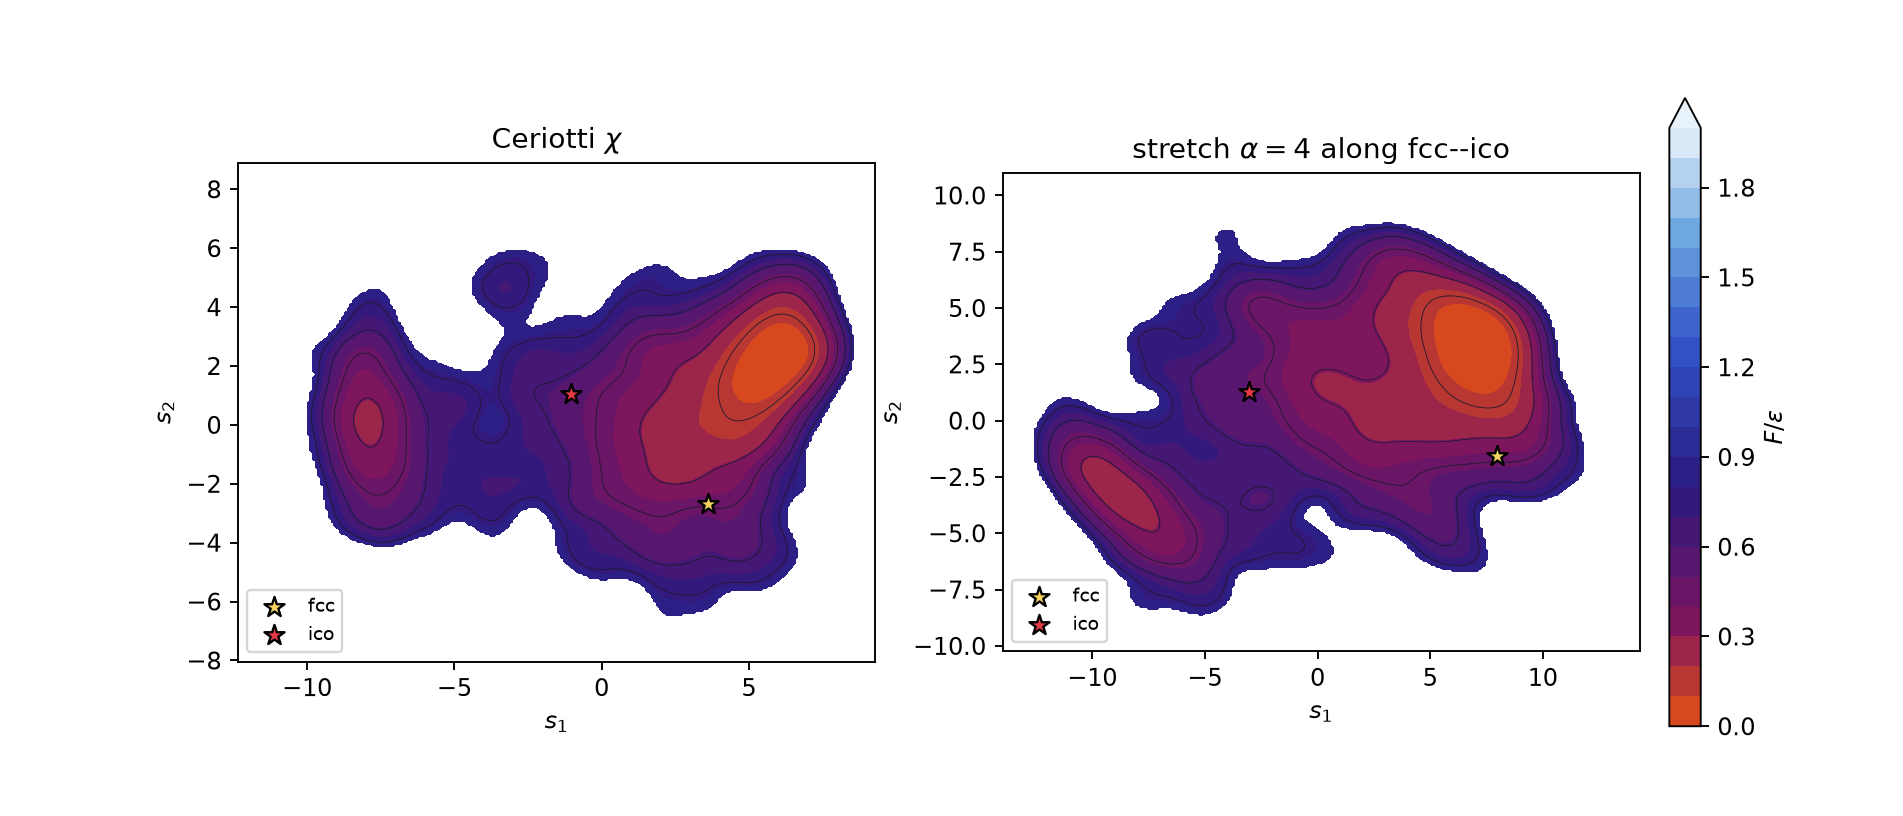
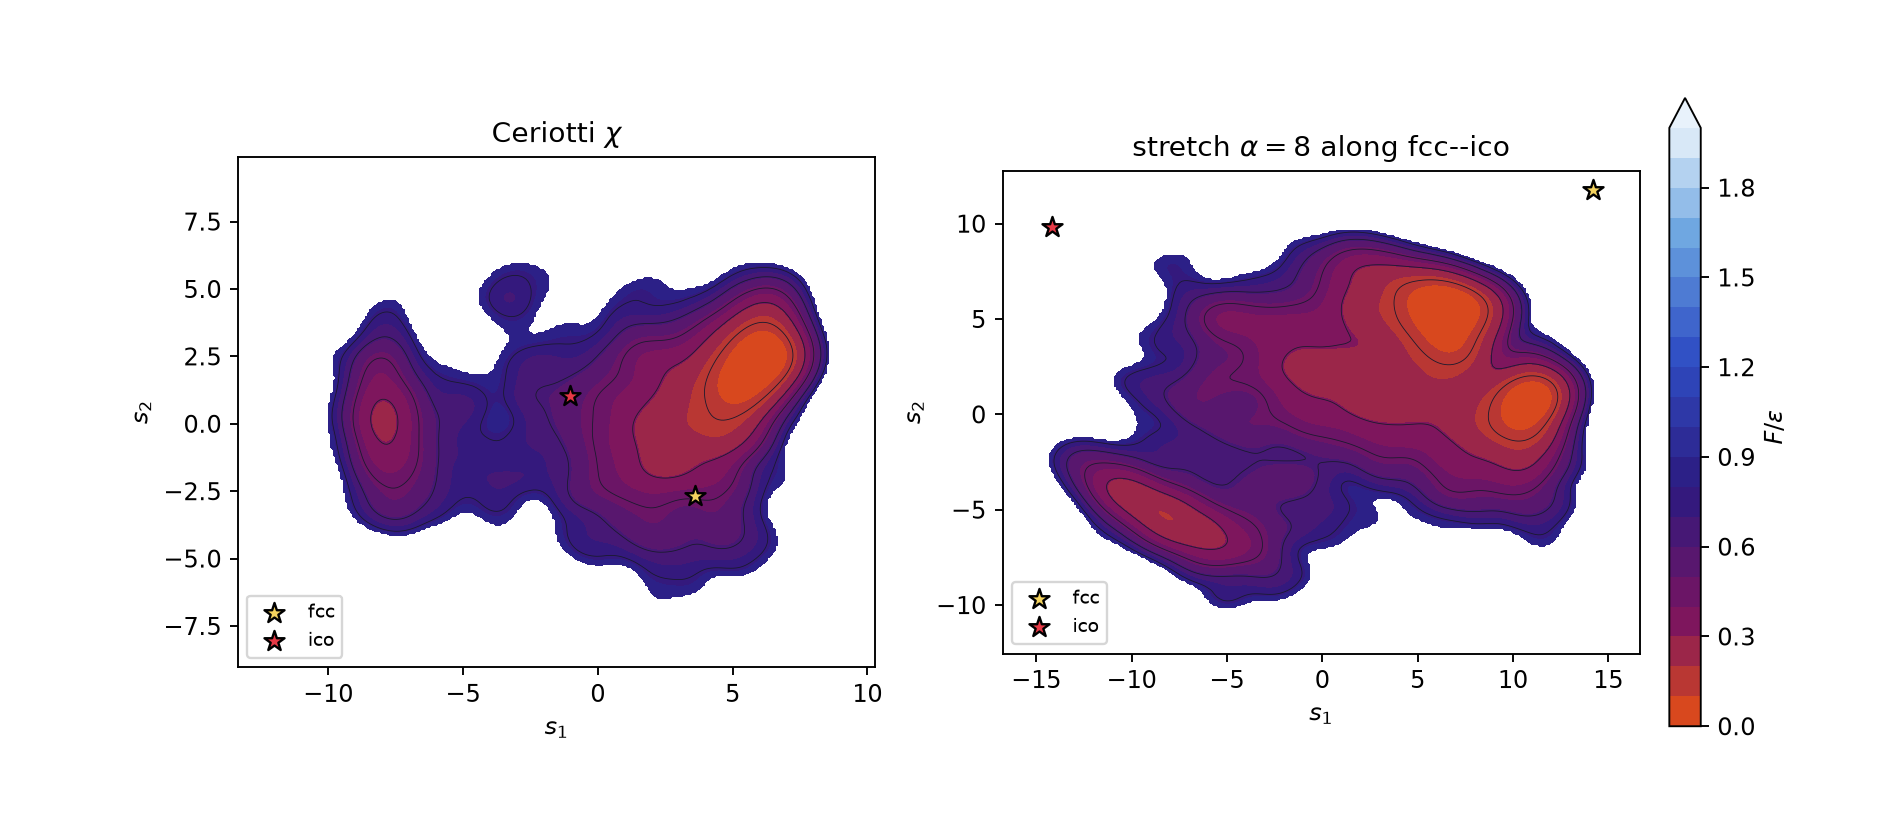
docs: stretch alpha=8 with fcc and ico projected as themselves
The minima sit outside the TSE cloud, on opposite ends of the
stretched axis. Fisher Mahalanobis tightens intra-class distances
but does not beat stretch on the fcc-ico gap.

diff --git a/scripts/compare_stretch_fig.py b/scripts/compare_stretch_fig.py
@@ -21,19 +21,20 @@ spec.loader.exec_module(cf)
 
 def main() -> None:
     base = np.loadtxt("/tmp/landfold-cmp-base.proj")
-    stre = np.loadtxt("/tmp/landfold-cmp")
+    stre = np.loadtxt("/tmp/ts_a8.proj")
     gx0, gy0, f0 = cf.kde_fes(base)
     gx1, gy1, f1 = cf.kde_fes(stre)
+    refs = np.loadtxt("/tmp/refs_a8.ld")
     tscv = cf.load_ts_cv(EX / "ts.all")
-    fcc = cf.match_tip(stre, tscv, cf.cn_vector(EX / "lj38_fcc.xyz"))
-    ico = cf.match_tip(stre, tscv, cf.cn_vector(EX / "lj38_ico.xyz"))
     fcc0 = cf.match_tip(base, tscv, cf.cn_vector(EX / "lj38_fcc.xyz"))
     ico0 = cf.match_tip(base, tscv, cf.cn_vector(EX / "lj38_ico.xyz"))
+    fcc = refs[0]
+    ico = refs[1]
 
     fig, axes = plt.subplots(1, 2, figsize=(11.2, 4.8), dpi=170, facecolor="white")
     for ax, gx, gy, fes, title, fa, ia in (
         (axes[0], gx0, gy0, f0, "Ceriotti $\\chi$", fcc0, ico0),
-        (axes[1], gx1, gy1, f1, r"stretch $\alpha=4$ along fcc--ico", fcc, ico),
+        (axes[1], gx1, gy1, f1, r"stretch $\alpha=8$ along fcc--ico", fcc, ico),
     ):
         mesh = ax.contourf(
             gx, gy, fes, levels=np.linspace(0, 2, 21), cmap=cf.CMAP, extend="max"
@@ -43,6 +44,10 @@ def main() -> None:
         )
         ax.scatter(*fa, s=80, marker="*", c="#f4d35e", edgecolors="k", zorder=5, label="fcc")
         ax.scatter(*ia, s=80, marker="*", c="#e63946", edgecolors="k", zorder=5, label="ico")
+        xs = [gx[0], gx[-1], fa[0], ia[0]]
+        ys = [gy[0], gy[-1], fa[1], ia[1]]
+        ax.set_xlim(min(xs) - 1.0, max(xs) + 1.0)
+        ax.set_ylim(min(ys) - 1.0, max(ys) + 1.0)
         ax.set_title(title)
         ax.set_xlabel(r"$s_1$")
         ax.set_ylabel(r"$s_2$")
